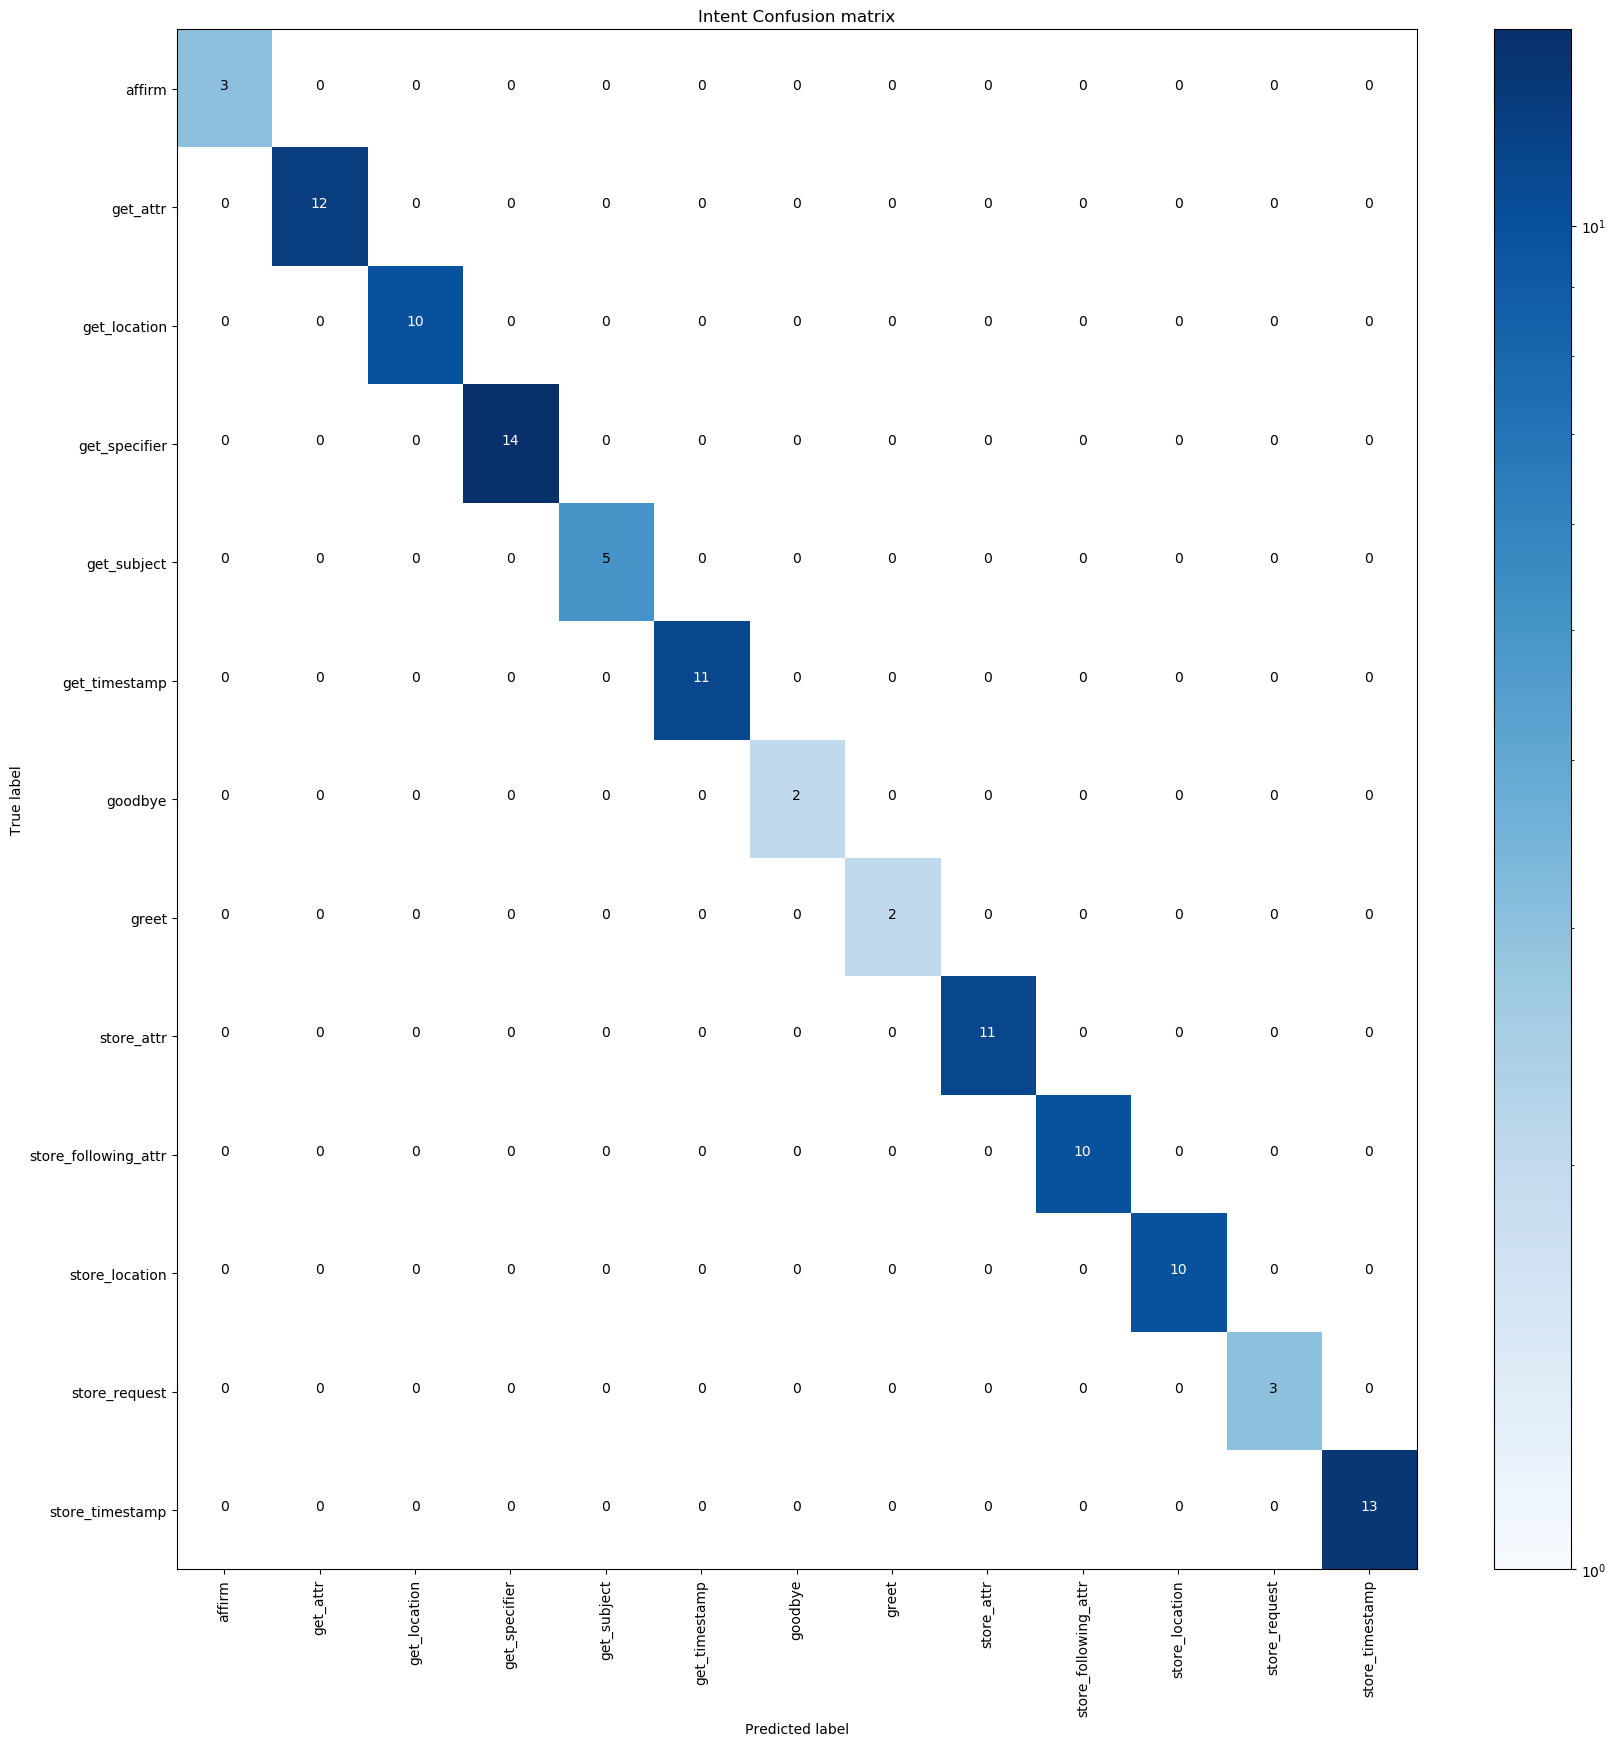
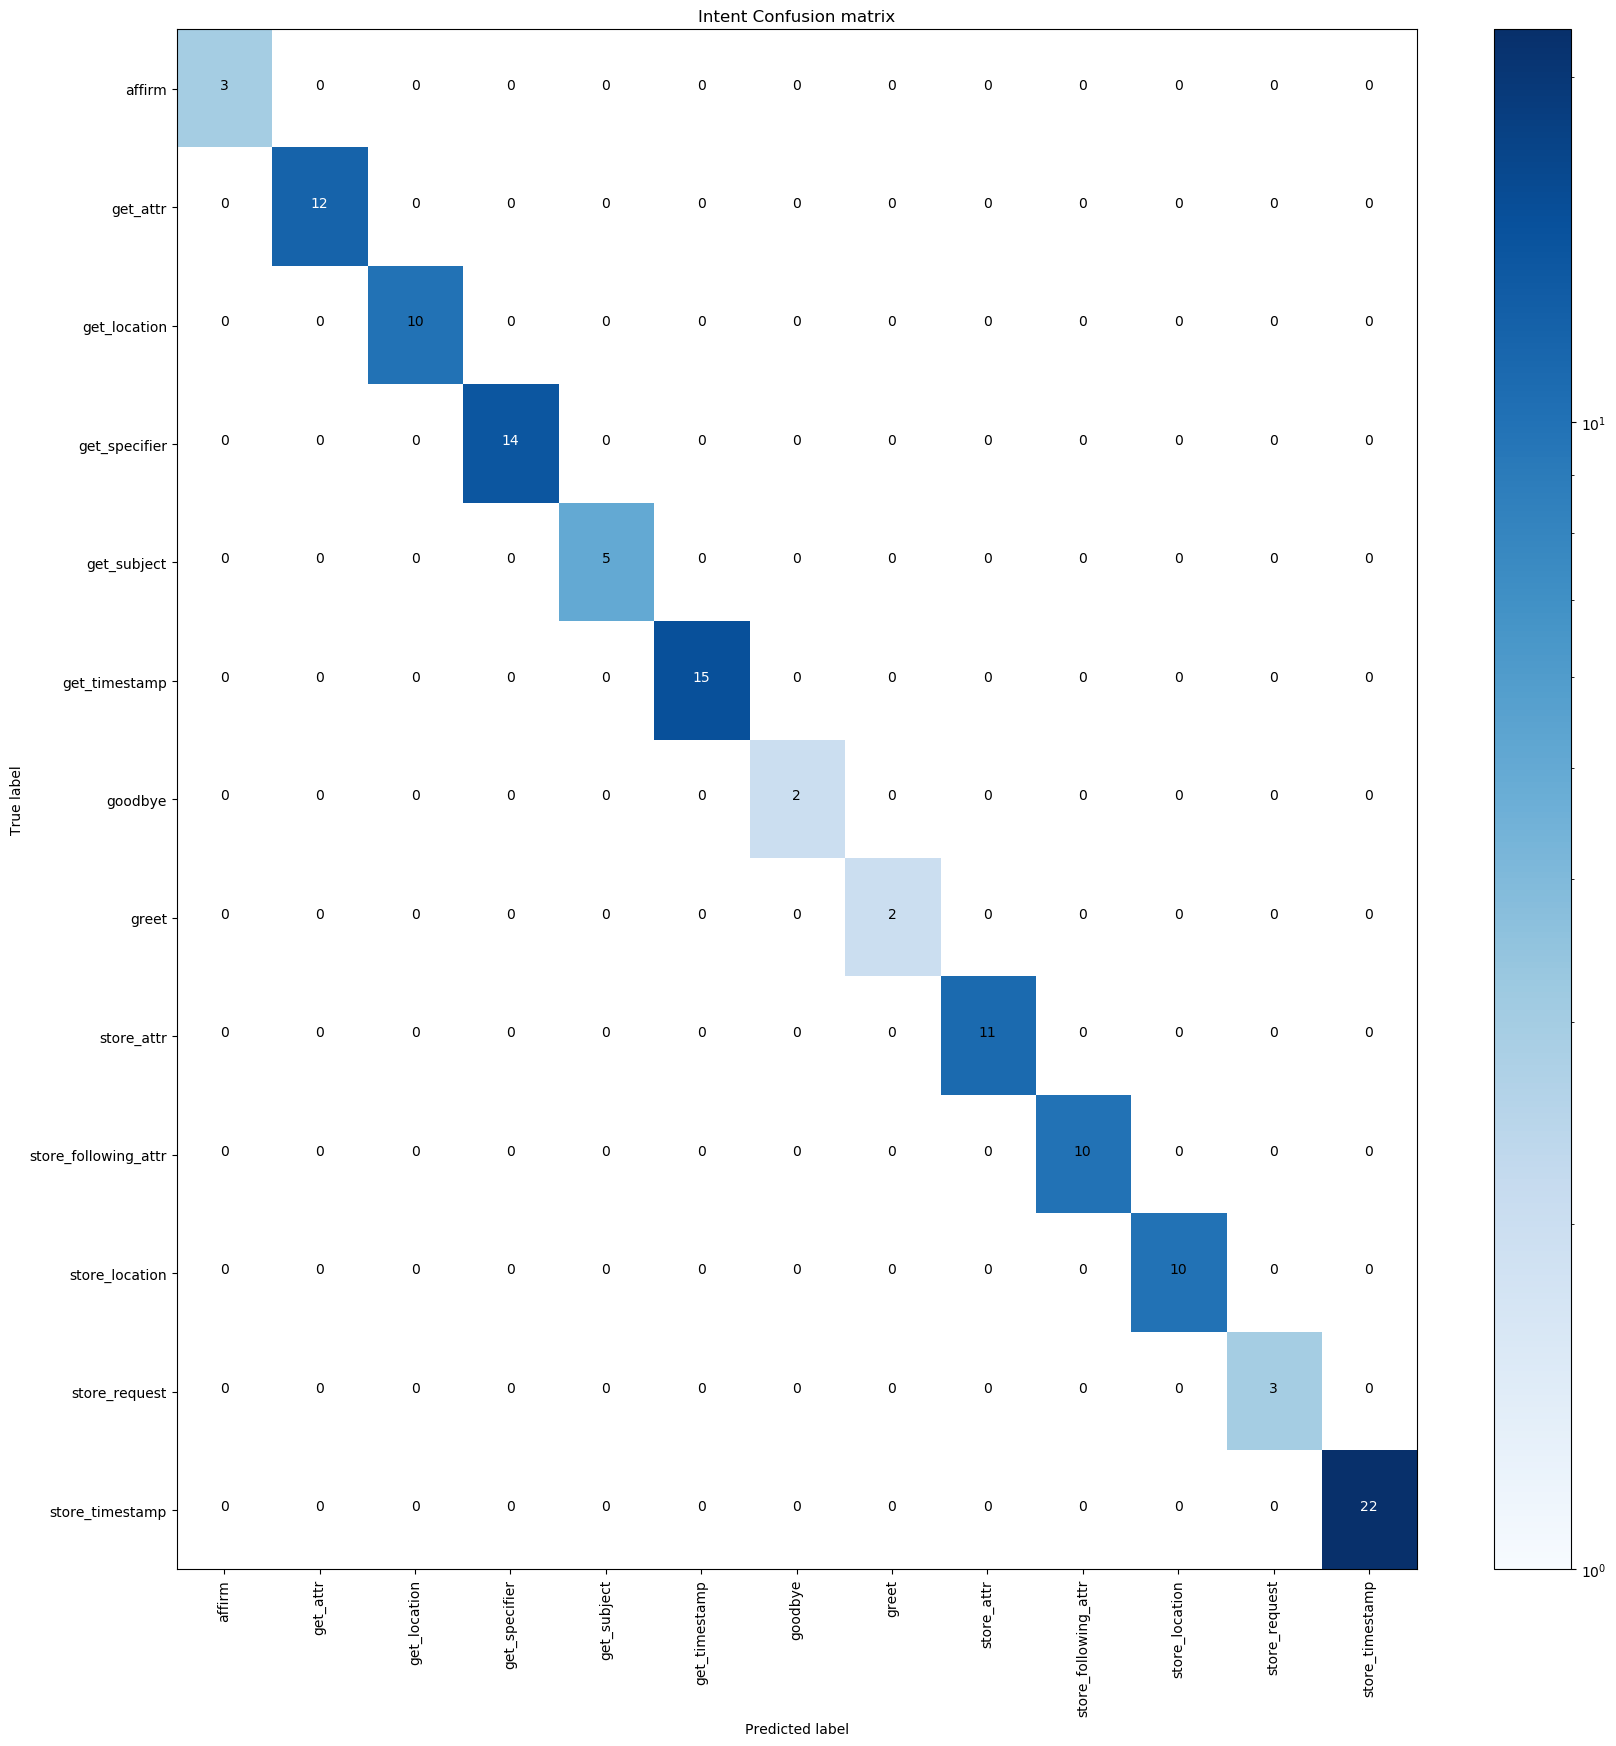
Added more examples containing different time expressions for get/store timestamp intents

Changed region(s): [[0.1547, 0.0619, 0.4022, 0.3711], [0.5569, 0.5567, 0.7735, 0.7732]]

diff --git a/rasa-bot/data/nlu.md b/rasa-bot/data/nlu.md
@@ -197,6 +197,7 @@
 - noile autobuze au apărut în [decembrie](time)
 - [luni](time) am fost la alergat
 - am mers la bazinul de înot [marți](time)
+- garanția de la frigider se termină [marțea](time) viitoare
 - coletul cu jacheta va ajunge [miercuri](time)
 - testul de curs la rețele neurale a fost [joi](time)
 - [vineri](time) încep promoțiile de black friday
@@ -205,28 +206,58 @@
 - [azi](time) am fost în parcul Titan
 - [Mâine](time) vine Mihai pe la mine
 - [poimâine](time) merg la mall
+- olimpiada internațională de geografie va începe [răspoimâine](time)
 - de [ieri](time) s-a făcut cald afară
 - am terminat proiecul la programare web [alaltăieri](time)
-- peste 2 [zile](time) începe examenul de bacalaureat
+- procesorul Intel i7 rulează o instrucțiune în 0.3 [nanosecunde](time)
+- execuția interogării în baza de date a durat 500 de [milisecunde](time)
 - sesiunea din browser a expirat acum 10 [secunde](time)
+- prezentarea proiectului durează 45 de [minute](time)
 - am de prezentat temele peste o [oră](time)
 - am mâncat acum 2 [ore](time)
+- peste 3 sferturi de [oră](time) o să ajungă Ina
+- întâlnirea cu managerul este peste o jumătate de [oră](time)
+- peste 2 [zile](time) începe examenul de bacalaureat
 - Maria pleacă în concediu peste 5 [săptămâni](time)
+- [săptămâna](time) viitoare încep cursurile de înot
 - conferința de bioinformatică a fost acum o [lună](time)
 - peste 2 [ani](time) termină Nicoleta masterul
 - buletinul îmi expiră peste 3 [ani](time)
 - mi-am făcut pașaportul acum un [an](time)
-- garanția de la frigider se termină [marțea](time) viitoare
-- [săptămâna](time) viitoare încep cursurile de înot
-- luna viitoare vine Florin din Spania
-- prezentarea proiectului durează 45 de [minute](time)
+- bătălia de la Mărășești a avut loc în [anul](time) 1917
+- acum 5 [decenii](time) nu existau calculatoare
+- în [secolul](time) 19 s-a dezvoltat Imperiul lui Napoleon
+- [luna](time) viitoare vine Florin din Spania
 - meciul dintre Franța și Spania va fi în [weekend](time)
-- întâlnirea cu managerul este peste o jumătate de [oră](time)
 - la [anul](time) se deschide mall-ul din Slatina
 - mi-am făcut analize [primăvara](time) trecută
 - restricțiile de circulație se încheie la [vară](time)
 - [toamna](time) viitoare încep masterul
 - Darius și-a schimbat domiciliul [iarna](time) trecută
+- curierul o să vină [diseară](time)
+- [aseară](time) am făcut cartofi prăjiți
+- tonerul de la imprimantă s-a terminat [alaltăseară](time)
+- bunica lui Alice va face cozonaci [mâine](time) [dimineață](time)
+- [ieri](time) [seara](time) a fost foarte frig afară
+- de [dimineață](time) trebuie să hrănesc animalele
+- am fost la cumpărături după [amiază](time)
+- la [răsărit](time) a început să cânte cocoșul din grădină
+- evaluarea națională a ținut 2 [ore](time) și 45 de [minute](time)
+- Jacob locuiește în Bremen de un an și 4 [luni](time)
+- trebuie să iau antibioticul o dată la 6 ore
+- bazinul de apă se umple o dată la 30 de minute
+- Marc ia vitaminele de 2 ori pe zi
+- eu merg la sală de 3 ori pe săptămână
+- mgazinul se aprovizionează în fiecare [săptămână](time)
+- în fiecare an apare un nou telefon Samsung Galaxy
+- serviciul funcționează de [luni](time) până [vineri](time)
+- de joi va putea ajunge în Germania cu trenul
+- până pe 24 iunie trebuie să trimit lucrarea de diplomă
+- festivalul de muzică ușoară și dans va fi de pe 1 septembrie pe 10 octombrie
+- de pe 23 până pe 27 am fost în concediu la munte
+- între 3 și 7 ianuarie am fost la conferință în Toronto
+- la polul nord este noapte timp de 6 [luni](time) 
+- Andra și-a ales rochia de bal după 2 [săptămâni](time)
 
 ## intent:get_timestamp
 - [când](query_word_time) vor avea loc alegerile locale din 2020
@@ -241,6 +272,15 @@
 - peste [cât timp](query_word_time) [începe sesiunea de examene](action)
 - când trebuie să merg la control oftalmologic
 - [când](query_word_time) trebuie să iau pastilele de stomac
+- [cât de des](query_word_time) se actualizează sistemul de operare?
+- [cât de des](query_word_time) trebuie să ud florile din fața casei
+- [în ce perioadă](time) se va ține concursul de fizică de la Bacău
+- [în ce perioadă](time) vor avea loc preselecțiile pentru balul bobocilor 
+- [în care perioadă](time) a fost cel mai frig afară?
+- [în ce interval](time) e deschis magazinul Kaufland de la Giurgiu?
+- [în ce interval](time) de timp a avut loc atacul
+- [de când până când](time) se vor închide magazinele
+- [de când până când](time) pot citi indexul de energie electrică
 
 ## intent:get_subject
 - [Cine](query_word_subj) [stă în căminul P16](action)?

diff --git a/rasa-bot/data/nlu_test.md b/rasa-bot/data/nlu_test.md
@@ -109,6 +109,15 @@
 - hackathonul s-a organizat weekend-ul trecut
 - la primăvară e gata blocul
 - voi pleca in Monaco peste 3 ore
+- am udat floarea roșie aseară
+- mâine la prânz o să tund gazonul
+- alaltăieri după amiază a plouat cu piatră la Botoșani
+- de 3 ori pe oră trebuie să verific starea panoului de control
+- o dată la 4 ani se schimbă primarii
+- Dan vine acasă din Germania în fiecare vară
+- copierea fișierelor de pe un disk pe altul a durat 4 minute
+- am alergat timp de o oră și jumătate
+- acum 3 ore și 15 minute președintele John Kennedy a ținut un discurs
 
 ## intent:get_timestamp
 - când începe vacanța de iarnă
@@ -122,6 +131,10 @@
 - pentru cât timp o să fie plecat Mihai
 - în cât timp am urcat pe vârful Omu?
 - peste cât timp începe sesiunea de comunicări științifice?
+- cât de des vin cei de la amenajări stradale să îngrijească plantele
+- de când până când se va lucra la reamenajarea clădirii?
+- în ce perioadă se vor da biletele gratis la operă
+- în ce interval o să se ia apa la apartament
 
 ## intent:get_subject
 - cine a inventat motorul cu reacție
